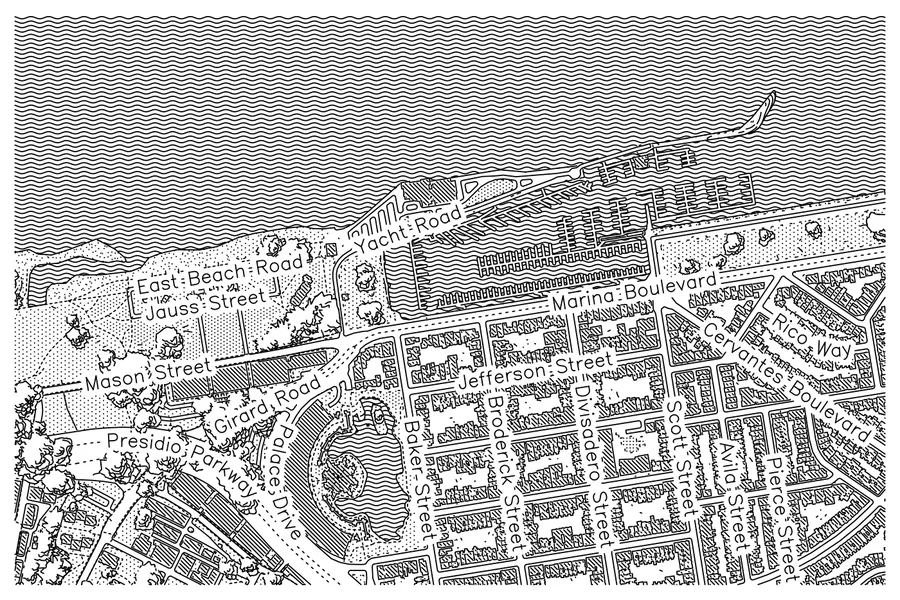
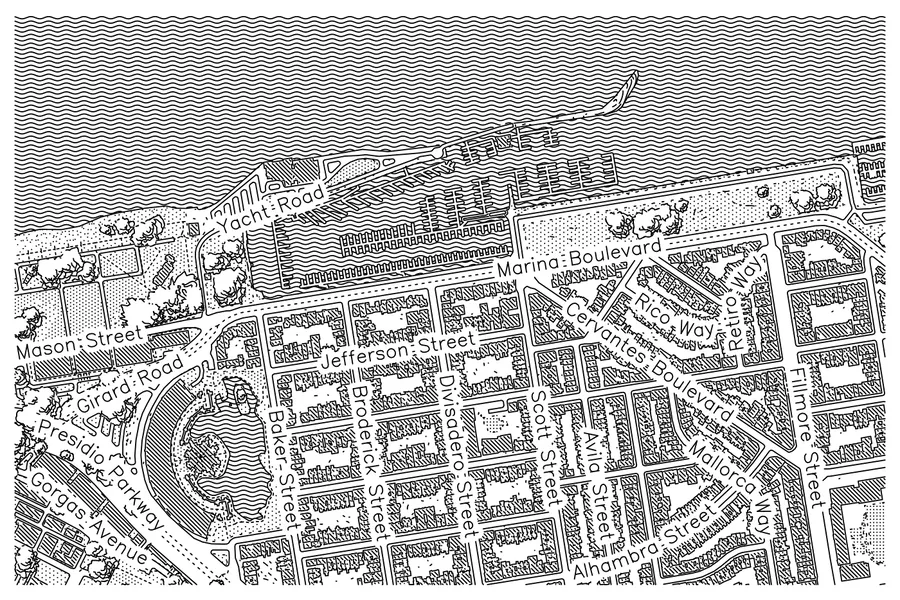
README: what draw.land is, the two ways to use it, and how the pieces fit.
For someone who has never heard of it: the web page and the code side by
side, the install lines for the command line, Python and Node, a diagram of
profile → graph → engine → SVG, and every crate and package with its role.
City Grain's picture: the Marina on two tiles.

diff --git a/README.md b/README.md
@@ -1,19 +1,64 @@
 # draw.land
 
-Turn any place on Earth into a pen-plotter map. OpenStreetMap data, vector
-tiles and elevation are fetched, projected onto the paper and drawn as
-distinct layers, one per pen: buildings hatched, parks dotted, water waved,
-roads at their real width, contours, soundings, labels in single-stroke
-fonts. The output is one layered SVG in paper millimetres. What is drawn, and
-how, is a short JavaScript **profile**.
+**Maps of any place on Earth, drawn for pen plotters.** draw.land takes
+OpenStreetMap data, vector tiles and elevation, and draws them the way a pen
+would: buildings hatched, parks stippled, water in waves, roads at their real
+width, contours, depth soundings, names in single-stroke fonts. The result is
+one SVG in paper millimetres with **one layer per pen**, ready for an AxiDraw
+or any plotter, a laser or a cutter. How it looks is a short JavaScript
+**profile** you can write, change and share.
 
-![City Grain](https://raw.githubusercontent.com/piLeoni/drawland/main/docs/gallery/city-grain.webp)
+![City Grain: San Francisco's Marina, drawn by draw.land](https://raw.githubusercontent.com/piLeoni/drawland/main/docs/gallery/city-grain.webp)
 
-This repository is the engine and its command line, open source
-(AGPL-3.0). The web page at [draw.land](https://draw.land) is built on it: a
-map with a card to place, an editor, and the documentation at
-[draw.land/docs](https://draw.land/docs) (tutorial, concepts, every pattern,
-the full reference).
+## Two ways to use it
+
+| | |
+|---|---|
+| **Online, nothing to install** | [**draw.land**](https://draw.land): place a card on a map, pick one of the styles, edit its profile with autocomplete, download SVG, PNG, DXF or G-code, whole, per sheet or per pen. The [documentation](https://draw.land/docs) (gallery, tutorial, concepts, every pattern, the full reference) lives there too. |
+| **From code** | This repository, open source: the same engine as a command line, a Python package, a Node package and Rust crates. |
+
+```bash
+cargo install drawland-cli      # the drawland command
+pip install drawland            # Python 3.9+, the command included
+npm install drawland            # Node 18+, the command included (npx drawland)
+```
+
+```bash
+drawland map --address "Piazza Maggiore, Bologna" -o bologna.svg
+```
+
+## How it works
+
+```mermaid
+flowchart LR
+    P["profile.js<br/>(your style)"] --> S["drawland-script<br/>runs the script"]
+    S --> G["graph<br/>(JSON)"]
+    D["map data<br/>OpenStreetMap · vector tiles<br/>elevation · fonts · GeoJSON"] --> C
+    G --> C["drawland-core<br/>projection · fills · masks<br/>labels · plotter optimisation"]
+    C --> O["layered SVG<br/>one group per pen"]
+```
+
+A profile never touches geometry: it **describes** the map (which data, made
+into which areas and lines, filled with which patterns, stacked and masked
+how) and builds a graph of operations. The engine, in Rust, runs the graph on
+the data. That split is why the same profile draws the same map everywhere:
+
+| Piece | What it is | Where |
+|---|---|---|
+| `drawland-core` | The engine: projections (web Mercator, UTM, any PROJ string, your own), fills, masks, labels, sheets, plotter optimisation. No network, no files. | [crates/drawland-core](https://github.com/piLeoni/drawland/tree/main/crates/drawland-core) |
+| `drawland-script` | The profile language: a sandboxed JavaScript interpreter (Boa) and the library a profile calls; [`drawland.d.ts`](https://github.com/piLeoni/drawland/blob/main/crates/drawland-script/drawland.d.ts) describes it exactly | [crates/drawland-script](https://github.com/piLeoni/drawland/tree/main/crates/drawland-script) |
+| `drawland` | The two above plus everything a map reads: geocoding, Overpass, OpenFreeMap tiles, Terrarium elevation, fonts, datasets, all cached on disk | [crates/drawland](https://github.com/piLeoni/drawland/tree/main/crates/drawland) |
+| `drawland` command | `drawland map <profile>` | [crates/drawland-cli](https://github.com/piLeoni/drawland/tree/main/crates/drawland-cli) |
+| Python package | `import drawland` | [bindings/python](https://github.com/piLeoni/drawland/tree/main/bindings/python) |
+| Node package | `require('drawland')` | [bindings/node](https://github.com/piLeoni/drawland/tree/main/bindings/node) |
+| [draw.land](https://draw.land) | The web page: the engine compiled to WebAssembly, with a map, an editor and the styles | its own repository (not open source) |
+
+The patterns come from [penfill](https://github.com/piLeoni/penfill), the
+pen-and-ink terrain from [burin-map](https://github.com/piLeoni/burin-map),
+the vector tiles as polygons from
+[terramask](https://github.com/piLeoni/terramask), and stroke de-overlap
+from [deoverlap](https://github.com/piLeoni/deoverlap): sibling libraries,
+each with its own Python and Node packages.
 
 ## A profile
 
@@ -192,7 +237,7 @@ reads `city-grain.js` beside the profile.
 editor that knows TypeScript autocompletes and type-checks a profile against
 it (`// @ts-check` with the file in a `jsconfig.json`).
 
-## Layout
+## Repository layout
 
 | Path | Role |
 |---|---|
@@ -206,7 +251,7 @@ it (`// @ts-check` with the file in a `jsconfig.json`).
 | `docs/architecture/` | Architecture index for contributors and coding agents (`AGENTS.md`) |
 | `reference/python/` | The former Python pipeline, kept to read, not run |
 
-## Tests
+## Contributing
 
 ```bash
 cargo test
@@ -218,10 +263,14 @@ The pattern types in `drawland.d.ts` are written from penfill's catalogue:
 `cargo run -p drawland-script --example write_dts` (`cargo test` fails when
 they are stale).
 
-draw.land builds against sibling checkouts of its own libraries, developed
-alongside it: penfill in `../penfill` (fills), terramask in `../terramask`
-(map tiles as polygons, the sea, elevation bands), burin-map in
-`../burin-map` (pen-and-ink terrain) and deoverlap in `../deoverlap`.
+draw.land is developed against sibling checkouts of its own libraries:
+penfill in `../penfill` (fills), terramask in `../terramask` (map tiles as
+polygons, the sea, elevation bands), burin-map in `../burin-map` (pen-and-ink
+terrain) and deoverlap in `../deoverlap`. Without them,
+`python3 scripts/registry-deps.py` points the workspace at their published
+versions on crates.io, which is what CI does. Start reading at
+[AGENTS.md](https://github.com/piLeoni/drawland/blob/main/AGENTS.md) and
+[docs/architecture/INDEX.md](https://github.com/piLeoni/drawland/blob/main/docs/architecture/INDEX.md).
 
 ## License
 
